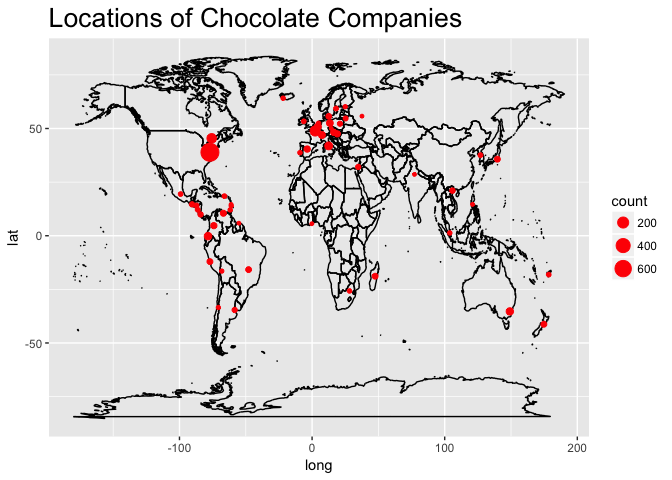
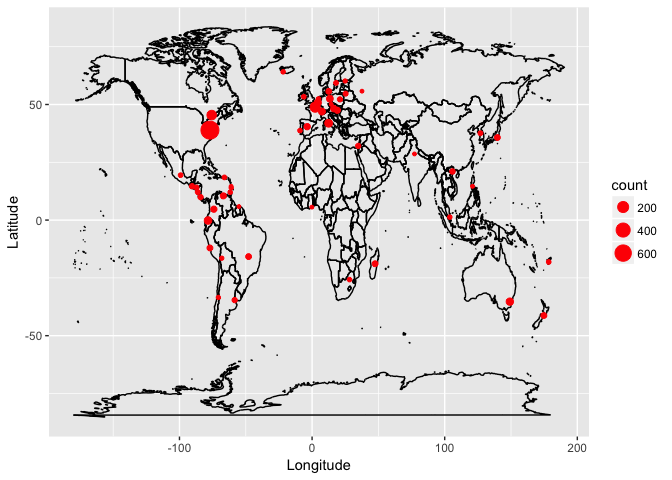
Adding information about bean types.

diff --git a/Chocolate_Bar_Ratings.md b/Chocolate_Bar_Ratings.md
@@ -219,7 +219,7 @@ Venezuela
 </tr>
 </tbody>
 </table>
-I need to remove the % sign in Cocoa.Percent and make it an int. I also want to rename some of the columns to shorter names, make some spelling corrections in the bean country origin column and join a file I have tha has the latitiudes an longituds for the capital of each country.
+I need to remove the % sign in Cocoa.Percent and make it an int. I also want to rename some of the columns to shorter names, make some spelling corrections in the bean country origin column.
 
 ``` r
 cocoa$Cocoa.Percent<-gsub("%","",cocoa$Cocoa.Percent)
@@ -235,16 +235,20 @@ cocoa <- cocoa %>% rename(company = Company...Maker.if.known.,
                           bean_type = Bean.Type)
    
 #There is a spelling error in Dominican Republic some are spelled Domincan Republic.
-cocoa$bean_origin_country[ cocoa$bean_origin_country == "Domincan Republic"] <- "Dominican Republic"   
+cocoa$bean_origin_country[ cocoa$bean_origin_country == "Domincan Republic"] <- "Dominican Republic" 
 
-#If I want to join the Lat and lon data I need the countries to match so I need to change Trinidad to Trinidad and Tobago
+#If I want to join the Lat and lon data I need the countries to match    
+#so I need to change Trinidad to Trinidad and Tobago
 cocoa$bean_origin_country[ cocoa$bean_origin_country == "Trinidad"] <- "Trinidad and Tobago" 
 cocoa$bean_origin_country[ cocoa$bean_origin_country == "Burma"] <- "Myanmar"
-
 cocoa$company_location<-gsub("U.S.A.","United States",cocoa$company_location)
+
+
+cocoa$bean_type[cocoa$bean_type == "Forastero (Arriba) ASS"] <- "Forastero (Arriba)"
+cocoa$bean_type <- gsub("Trinitario, Criollo", "Criollo, Trinitario", cocoa$bean_type)
 ```
 
-Ok now lets see a distribution of the Ratings.
+Now lets see a distribution of the Ratings.
 
 ``` r
 ggplot(cocoa, aes(x = Rating)) +
@@ -301,14 +305,14 @@ ggplot(n3, aes(x = reorder(company_location, count),
                y = count, fill = company_location)) + 
                       geom_bar(stat = "identity")  +
                       geom_text(aes(label = count), vjust = 1, hjust = .5) + 
-                      labs(x = "Companies", y = "Number of Ratings", title = "Companies With the most Ratings") +
+                      labs(x = "Companies", y = "Number of Ratings", title = "Location of Companies") +
                       theme(legend.position = "none") +
                       coord_flip()
 ```
 
 ![](Chocolate_Bar_Ratings_files/figure-markdown_github-ascii_identifiers/unnamed-chunk-10-1.png)
 
-That is interesting the United States is while represnted in this dataset. I thought Switzerland, Germany and Belgium would have more chocolate bars rated. Lets take a quick look at a map of these locations.
+That is interesting the United States is while represented in this dataset. I thought Switzerland, Germany and Belgium would have more chocolate bars rated. Lets take a quick look at a map of these locations.
 
 ``` r
 #Import dataset of latitudes and longitudes for world capitals 
@@ -329,13 +333,13 @@ world_map <- map_data("world")
 ggplot() +
 geom_path(data = world_map, aes(x = long, y = lat, group = group)) +
 geom_point(data = n4, aes(x = Longitude, y = Latitude, size = count), color = "red") +
-ggtitle("Locations of Chocolate Companies") +
+labs("Locations of Chocolate Companies", x = "Longitude", y = "Latitude") +
 theme(plot.title=element_text(size=20))
 ```
 
 ![](Chocolate_Bar_Ratings_files/figure-markdown_github-ascii_identifiers/unnamed-chunk-11-1.png)
 
-Cocoa beans are growen in 98 different counties in this dataset the top 20 countries represented are.
+Cocoa beans are grown in 98 different counties in this dataset the top 20 countries represented are.
 
 ``` r
 n4 <- cocoa %>% filter(!is.na(bean_origin_country)) %>%
@@ -348,21 +352,19 @@ ggplot(n4, aes(x = reorder(bean_origin_country, count),
                y = count, fill = bean_origin_country)) + 
                       geom_bar(stat = "identity")  +
                       geom_text(aes(label = count), vjust = 1, hjust = .5) + 
-                      labs(x = "Companies", y = "Number of Ratings", title = "Companies With the most Ratings") +
+                      labs(x = "Companies", y = "Number of Ratings", title = "Where Are The Cocoa Beans Grown") +
                       theme(legend.position = "none") +
                       coord_flip()
 ```
 
 ![](Chocolate_Bar_Ratings_files/figure-markdown_github-ascii_identifiers/unnamed-chunk-13-1.png)
 
-8 of the top 10 are in South & central America. I have a dataset that I can join to this one that has the Latitudes and logitudes for the capital of each country around the world. THis will allow me to map some of this data.
+8 of the top 10 are in South & central America. I have a dataset that I can join to this one that has the Latitudes and longitudes for the capital of each country around the world. This will allow me to map some of this data.
 
 ``` r
 #Import dataset of latitudes and longitudes for world capitals 
 lat_lon <- read.csv("country_lat_lon.txt") 
-
 origin_map <- left_join(cocoa, lat_lon, by = c("bean_origin_country" = "Country")) %>% select(-c(Capital))
-
 
 n5 <- origin_map %>% filter(!is.na(bean_origin_country), !is.na(Latitude)) %>%
                      group_by(bean_origin_country, Latitude, Longitude) %>% 
@@ -373,12 +375,74 @@ n5 <- origin_map %>% filter(!is.na(bean_origin_country), !is.na(Latitude)) %>%
 world_map <- map_data("world")
 
 # Draw the map and add the data points in myData
-
 ggplot() +
 geom_path(data = world_map, aes(x = long, y = lat, group = group)) +
 geom_point(data = n5, aes(x = Longitude, y = Latitude, size = count), color = "red") +
-ggtitle("Origin of Cocoa Beans") +
+labs("Origin of Cocoa Beans", x = "Longitude", y = "Latitude") +
 theme(plot.title=element_text(size=20))
 ```
 
 ![](Chocolate_Bar_Ratings_files/figure-markdown_github-ascii_identifiers/unnamed-chunk-14-1.png)
+
+All cocoa beans are grown in the tropics, most are grown in Central and South America.
+
+I want to see the breakdown of how many rating are in the dataset per year.
+
+``` r
+n6 <- cocoa %>% group_by(review_date) %>% 
+                summarise(count = n()) 
+
+ggplot(n6, aes(x = review_date, y = count)) +
+  geom_point() +
+  geom_line() +
+  scale_y_continuous(breaks = seq(0,300,25)) + 
+  scale_x_continuous(breaks = seq(2006,2017,1)) + 
+  labs(title = "Number of Ratings Per Year", x = "Rating Year", y = "Number of Ratings")
+```
+
+![](Chocolate_Bar_Ratings_files/figure-markdown_github-ascii_identifiers/unnamed-chunk-15-1.png)
+
+Not bad to have ten years of data, there is not much data from 2017 but I think this is because the data was retreved in 2017 and the rating were not out for the chocolate that year.
+
+What about bean type, looks like there are three main bean types in this dataset that are not blends. Below is a graph of the distribution.
+
+``` r
+n7 <- cocoa %>% filter(!is.na(bean_type)) %>%
+                group_by(bean_type) %>%
+                summarise(count = n()) %>%
+                arrange(desc(count)) %>%
+                top_n(9, wt = count)
+
+ggplot(n7, aes(x = reorder(bean_type, count),
+               y = count, fill = bean_type)) + 
+                      geom_bar(stat = "identity")  +
+                      geom_text(aes(label = count), vjust = 1, hjust = .5) + 
+                      labs(x = "Companies", y = "Number of Ratings", title = "Where Are The Cocoa Beans Grown") +
+                      theme(legend.position = "none") +
+                      coord_flip()
+```
+
+![](Chocolate_Bar_Ratings_files/figure-markdown_github-ascii_identifiers/unnamed-chunk-16-1.png)
+
+Looking at this graph above the three cocoas here represent 47.97 of the bars rated. The others are bars that use a blend of cocoa. With the research below there are some interesting things happening. The Criollo cocoa is the rarest in the world making up only 5% of the worlds profiction in this dataset it is 23.22%. The Forastero is most comman cocoa which could be why only 13.2% of the chocolate bars use this cocoa. The Trinitario is a hybrid of Criollo and Forastero, this cocoa is used in 63.58% of the chocolate bars.
+
+I did some reseach on the 3 types of cocoa bean in this dataset, the Trinitario which is the most populer in 419 chocolate bars, the Criollo cocoa bean which is in 153 chocolate bars and the Forastero cocoa bean which is in 87 bars.
+
+**Criollo** is a rare tree that is native to Central and South America as well as the Caribbean islands and Sri Lanka. Only 5% of the world’s production is Criollo. This makes up 17.77% of the bars in this dataset
+Source ("<https://www.barry-callebaut.com/about-us/media/press-kit/history-chocolate/theobroma-cacao-food-gods>")
+**Trinitario** is a natural hybrid biological class resulting from cross-pollination. Legend recounts that it first came into existence on the Island of Trinidad, after a hurricane nearly completely destroyed the local Criollo crops in 1727. Assuming all the trees were dead, the plantations were replanted with Forastero, but spontaneous hybrids appeared. The Trinitario cocoa is the main cocoa in 48.66%
+Source ("<https://www.barry-callebaut.com/about-us/media/press-kit/history-chocolate/theobroma-cacao-food-gods>")
+**Forastero** is the most commonly cocoa grown. It is most likely native to the Amazon basin. Today, Forastero is mainly grown in Africa, Ecuador and Brazil and accounts for 80% of the world’s cocoa supply. What makes it so popular is that it is much hardier and less susceptible to diseases. It has a much higher yield than the Criollo variety. Forastero cocoa has purple-coloured beans and is mainly used to give chocolate its full-bodied flavor. The Trinitario cocoa is the main cocoa in 10.1%
+Source ("<https://www.barry-callebaut.com/about-us/media/press-kit/history-chocolate/theobroma-cacao-food-gods>")
+**Forastero (Nacional)** is Forastero cocoa that is native to Ecuador, the flavor is very similar to that of other forasteros, with the addition of fruity overtones that other forasteros typically do not have. Source (<http://www.amanochocolate.com/blog/theobroma-cacao-the-tree-of-life-varieties-of-cacao/>)
+
+**Forastero (Arriba)** one of the only Forastero cacao varieties which can be labeled as fino di aroma cacao. Forastero typically is a bean used for industrial bulk chocolate, but Arriba has a much more refined taste allowing chocolate makers to make wonderful bars based on this cacao.
+Source (<https://webcache.googleusercontent.com/search?q=cache:xN75k8S4Hd4J:https://beantobar.wordpress.com/category/arriba/+&cd=11&hl=en&ct=clnk&gl=us>)
+
+**Forastero (Parazinho)** cacao is small, round, fairly smooth, and yellow when ripe.
+Source (<https://missionchocolate.com/blogs/travel-blog/63223939-fazenda-venturosa-bahia-brazil>)
+
+**Criollo (Porcelana)** cocoa is the world’s most coveted of cocoa varieties due to its refined flavour profile, a perfect balance of acidity/fruit and lower levels of astringency and bitterness. Notes of nuts, caramel and slight spice are evident, with a buttery texture.
+Source (<http://www.chocolatetradingco.com/magazine/features/porcelana>)
+
+With a good idea of what i have in this dataset from the graphs and maps above: cocoa ratings, percent of cocoa in each bar, companies with the most ratings, company locations, locations cocoa beans are grown, number of ratings per year and bean type. I would like to see what makes a high rated chocolate bar, I will look at companie locaton, bean origin country, percent cocoa in the bar, bean type and rating year.
